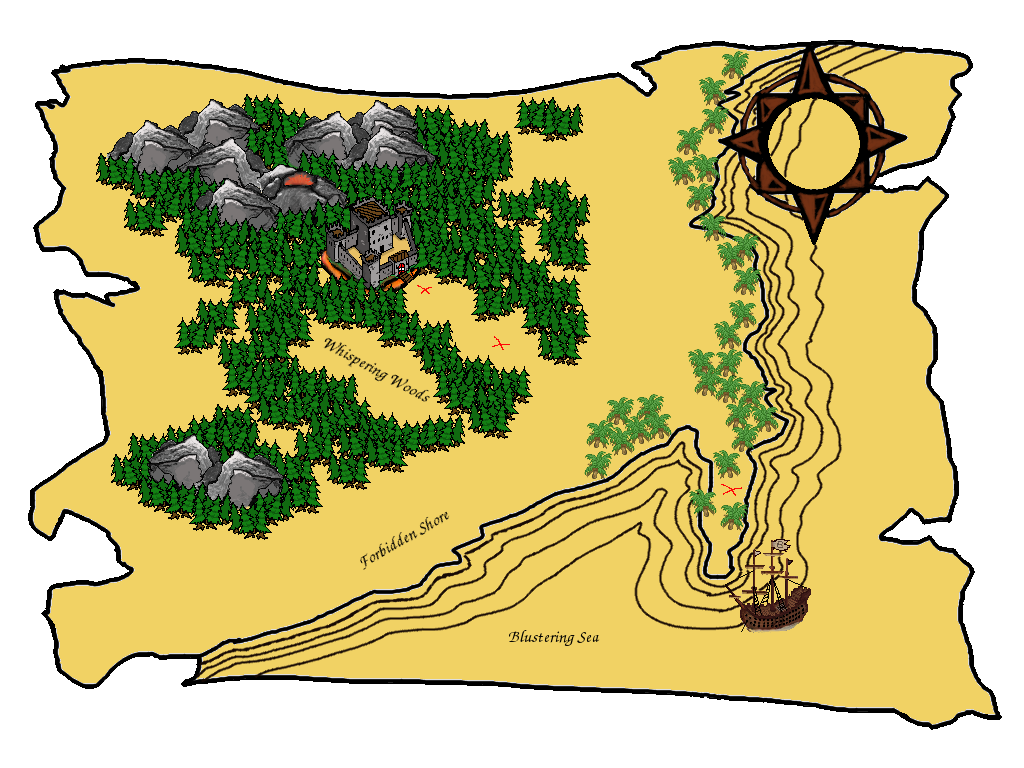
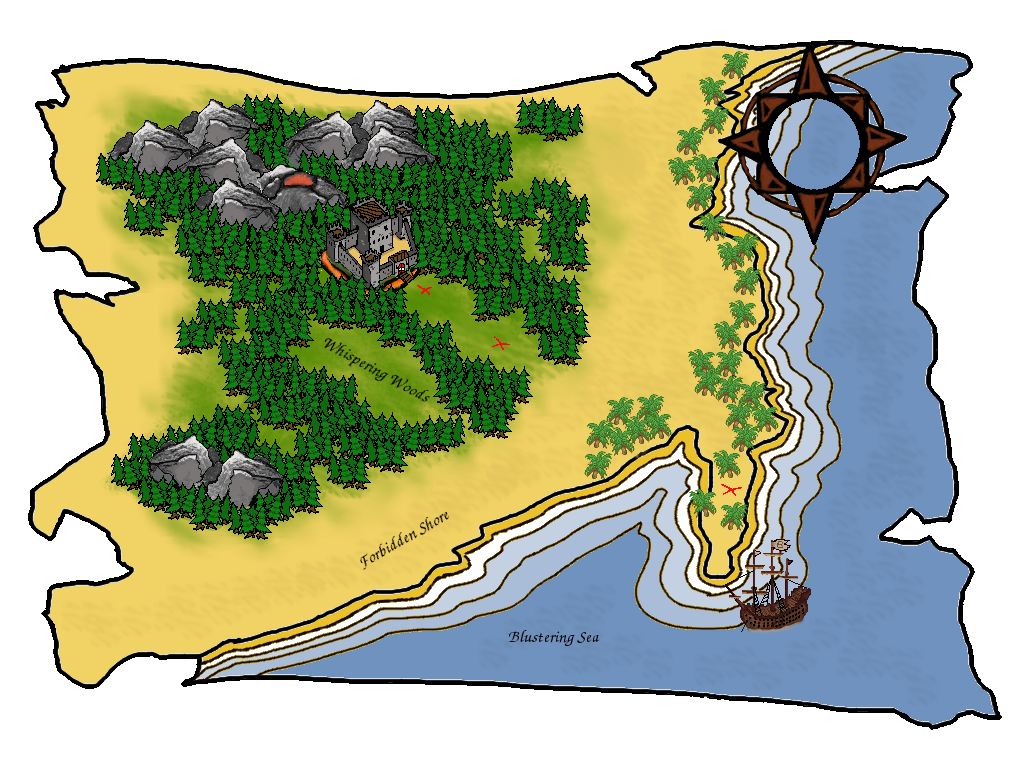
Tooltip bei Worldmap verändert, Worldmap koloriert

diff --git a/src/singleplayer/WorldMapUnit.java b/src/singleplayer/WorldMapUnit.java
@@ -15,6 +15,7 @@ import main.GameConstants;
 import main.GraphicalGameUnit;
 import main.UnitNavigator;
 import main.UnitState;
+import unitTransitions.TransitionUnit;
 
 /**
  * This subclass of GraphicalGameUnit is used to depict and interact with a
@@ -46,16 +47,15 @@ public class WorldMapUnit extends GraphicalGameUnit {
 	}
 
 	private boolean helpShown = false;
-
-	private String[] infoMsg = {
-			"Use Up and Down Keys to switch the selected level",
-			"Press 'Enter' to play, or 's' to save!" };
-	private String[] helpMsg = { "This is the WorldMap of Bomberman Island.",
+	private BufferedImage helpScreen;
+	private String[] helpMsg = {
 			"Here you can plan your journey and save your progress:",
 			"Use Up and Down Keys to switch the selected level",
-			"Press 'Enter' to play, or 'S' to save!" };
+			"Press 'Enter' to play, or 'S' to save!",
+			"You may hide or display this message by pressing 'F1'" };
 	private int textMaxWidth;
-	int[] lineWidth;
+	private int[] lineWidth;
+	private String heading;
 
 	@Override
 	public void drawComponent(Graphics g) {
@@ -80,10 +80,9 @@ public class WorldMapUnit extends GraphicalGameUnit {
 		/*
 		 * draw info message
 		 */
-		if (helpShown) {
-			drawTextInfo(g2d, infoMsg);
-		} else {
-			drawTextInfo(g2d, helpMsg);
+		if (!helpShown) {
+			helpShown = true;
+			initHelpscreen();
 		}
 		/*
 		 * draw level info
@@ -97,32 +96,20 @@ public class WorldMapUnit extends GraphicalGameUnit {
 				(int) (GameConstants.FRAME_SIZE_X - rect.getWidth()) / 2,
 				GameConstants.FRAME_SIZE_Y - 40);
 
+		/*
+		 * draw heading
+		 */
+		rect = unitFont.getStringBounds(heading, g2d.getFontRenderContext());
+		g2d.drawString(heading,
+				(int) (GameConstants.FRAME_SIZE_X - rect.getWidth()) / 2, 30);
+
 		g.setColor(Color.black);
 		g.fillRect(0, 0, GameConstants.FRAME_SIZE_X, GameConstants.FRAME_SIZE_Y);
 		g.drawImage(mapCanvas, mapCanvasX, mapCanvasY, null);
 	}
 
-	private void drawTextInfo(Graphics2D g2d, String[] text) {
-		g2d.setColor(Color.white);
-		for (int i = 0; i < text.length; i++) {
-			g2d.drawString(text[i],
-					(GameConstants.FRAME_SIZE_X - lineWidth[i]) / 2, 50 + i * 2
-							* unitFont.getSize());
-		}
-
-	}
-
 	public void setHelpShown(boolean helpShown) {
 		this.helpShown = helpShown;
-		lineWidth = new int[infoMsg.length];
-		for (int i = 0; i < infoMsg.length; i++) {
-			Rectangle2D rect = unitFont.getStringBounds(infoMsg[i], mapCanvas
-					.createGraphics().getFontRenderContext());
-			if (rect.getWidth() > textMaxWidth) {
-				textMaxWidth = (int) rect.getWidth();
-			}
-			lineWidth[i] = (int) rect.getWidth();
-		}
 	}
 
 	@Override
@@ -164,6 +151,10 @@ public class WorldMapUnit extends GraphicalGameUnit {
 		if (key == KeyEvent.VK_ESCAPE) {
 			UnitNavigator.getNavigator().set(UnitState.BASE_MENU_UNIT);
 		}
+		if (key == KeyEvent.VK_F1) {
+			initHelpscreen();
+			helpShown = true;
+		}
 	}
 
 	@Override
@@ -189,6 +180,8 @@ public class WorldMapUnit extends GraphicalGameUnit {
 		mapCanvasX = (GameConstants.FRAME_SIZE_X - mapCanvas.getWidth()) / 2;
 		mapCanvasY = (GameConstants.FRAME_SIZE_Y - mapCanvas.getHeight()) / 2;
 
+		heading = worldMap.getName() + " - Worldmap";
+
 		mapCanvas.createGraphics().setFont(unitFont);
 		lineWidth = new int[helpMsg.length];
 		for (int i = 0; i < helpMsg.length; i++) {
@@ -199,6 +192,7 @@ public class WorldMapUnit extends GraphicalGameUnit {
 			}
 			lineWidth[i] = (int) rect.getWidth();
 		}
+		loadHelpscreen();
 	}
 
 	@Override
@@ -206,4 +200,62 @@ public class WorldMapUnit extends GraphicalGameUnit {
 
 	}
 
+	/**
+	 * Loads helpscreen image.
+	 */
+	private void loadHelpscreen() {
+		helpScreen = new BufferedImage(textMaxWidth + 40, 40 + 2
+				* unitFont.getSize() * helpMsg.length,
+				BufferedImage.TYPE_INT_ARGB);
+		Graphics2D g2d = helpScreen.createGraphics();
+		Color color = new Color(0, 0, 0, 200);
+		g2d.setColor(color);
+		g2d.fillRect(0, 0, helpScreen.getWidth(), helpScreen.getHeight());
+
+		g2d.setColor(Color.white);
+		g2d.setFont(unitFont);
+
+		for (int i = 0; i < helpMsg.length; i++) {
+			g2d.drawString(helpMsg[i],
+					(helpScreen.getWidth() - lineWidth[i]) / 2, 50 + i * 2
+							* unitFont.getSize());
+		}
+
+	}
+
+	/**
+	 * Loads helpscreen image and initializes a TransitionUnit.
+	 */
+	private void initHelpscreen() {
+		BufferedImage helpscreenImage = createGameSceenshot();
+		helpscreenImage
+				.createGraphics()
+				.drawImage(
+						helpScreen,
+						(GameConstants.FRAME_SIZE_X - helpScreen.getWidth()) / 2,
+						(GameConstants.FRAME_SIZE_Y - helpScreen.getHeight()) / 2,
+						null);
+
+		TransitionUnit trans = new TransitionUnit(UnitState.TEMPORARY_UNIT,
+				helpscreenImage, this, false);
+		trans.setProgressionKey(KeyEvent.VK_F1);
+		UnitNavigator.getNavigator().addGameUnit(trans,
+				UnitState.TEMPORARY_UNIT);
+		UnitNavigator.getNavigator().set(UnitState.TEMPORARY_UNIT);
+	}
+
+	/**
+	 * Creates BufferedImage out of the mapCanvas and a black background.
+	 * 
+	 * @return BufferedImage depicting the current game screen.
+	 */
+	private BufferedImage createGameSceenshot() {
+		BufferedImage screenshot = new BufferedImage(
+				GameConstants.FRAME_SIZE_X, GameConstants.FRAME_SIZE_Y,
+				BufferedImage.TYPE_INT_ARGB);
+		Graphics2D g2d = screenshot.createGraphics();
+		g2d.setColor(Color.black);
+		g2d.drawImage(mapCanvas, mapCanvasX, mapCanvasY, null);
+		return screenshot;
+	}
 }

diff --git a/src/singleplayer/WorldMap.java b/src/singleplayer/WorldMap.java
@@ -35,25 +35,32 @@ public class WorldMap {
 	 * to advance.
 	 */
 	private int maxLevelAccessible;
+	private String worldMapName;
 
 	/**
 	 * Construct a WorldMap.
 	 * 
 	 * @param levelCoords
 	 *            level locations.
+	 * @param worldMapName
 	 * @param worldmap
 	 *            map object representing the WorldMap.
 	 */
 	public WorldMap(Point[] levelCoords, String[] coordLabels,
 			GameGraphic[] progressIndicator, GameGraphic backgroundImg,
-			GameGraphic playerImg) {
+			GameGraphic playerImg, String worldMapName) {
 		this.levelCoords = levelCoords;
 		this.coordLabels = coordLabels;
 		this.progressIndicator = progressIndicator;
 		this.playerImg = playerImg;
 		this.backgroundImg = backgroundImg;
+		this.worldMapName = worldMapName;
 		maxLevelAccessible = 0;
 		selectedLevel = 0;
+	}
+
+	public String getName() {
+		return worldMapName;
 	}
 
 	public GameGraphic getPlayerImg() {

diff --git a/src/singleplayer/CampaignReader.java b/src/singleplayer/CampaignReader.java
@@ -85,7 +85,7 @@ public class CampaignReader {
 		}
 
 		WorldMap worldMap = new WorldMap(coordinates, coordLabel,
-				progressIndicator, background, player);
+				progressIndicator, background, player, worldMapName);
 		Campaign campaign = new Campaign(levels, worldMap, filename);
 		return campaign;
 	}

diff --git a/src/singleplayer/LevelManagerUnit.java b/src/singleplayer/LevelManagerUnit.java
@@ -217,6 +217,8 @@ public class LevelManagerUnit extends GraphicalGameUnit {
 
 	@Override
 	public void handleKeyReleased(KeyEvent e) {
+		if (!mapActive)
+			return;
 		int key = e.getKeyCode();
 		if (key == KeyEvent.VK_UP) {
 			player.direction.setUp(false);
